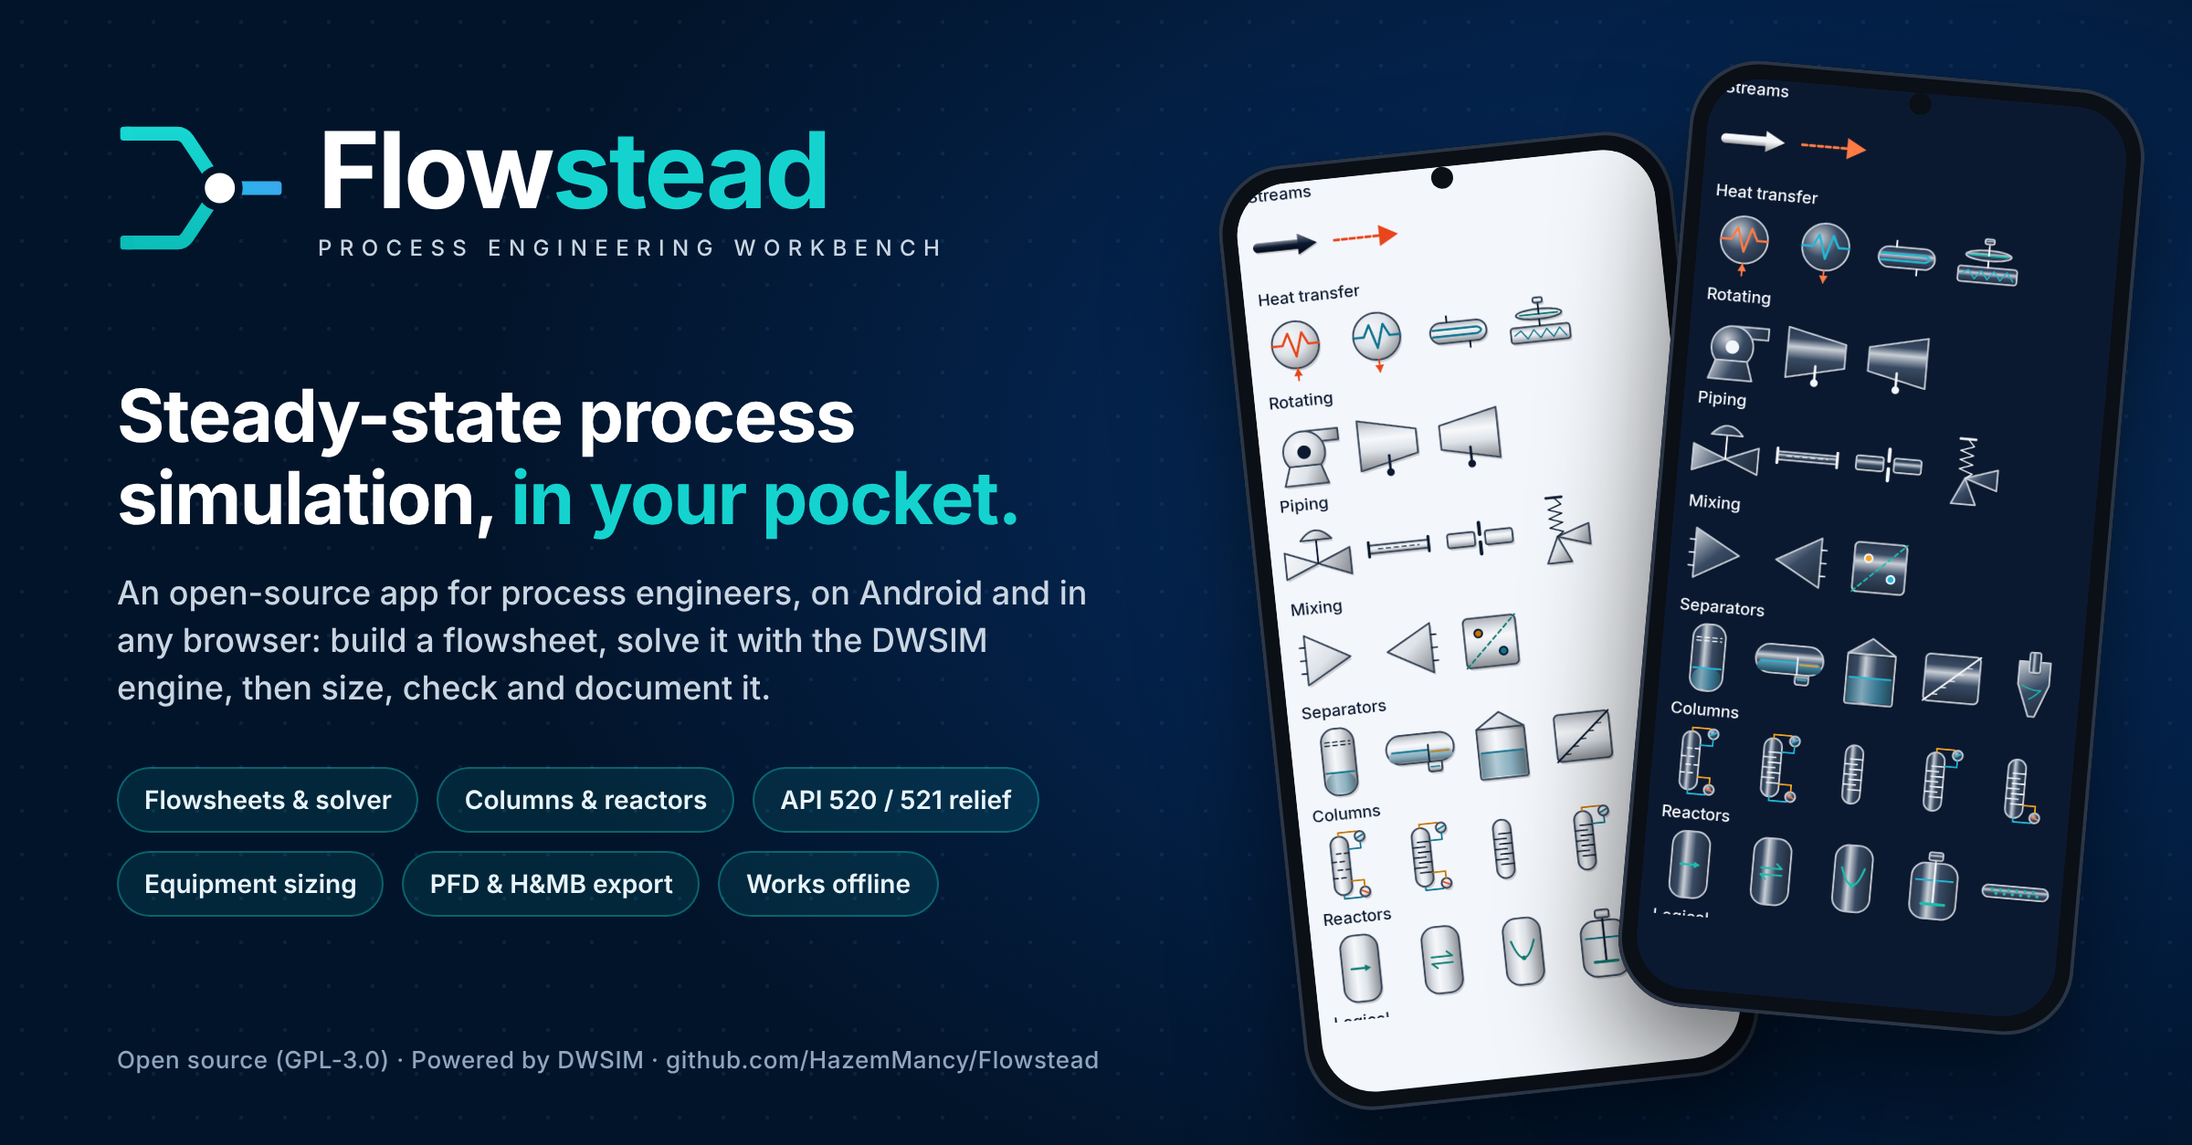
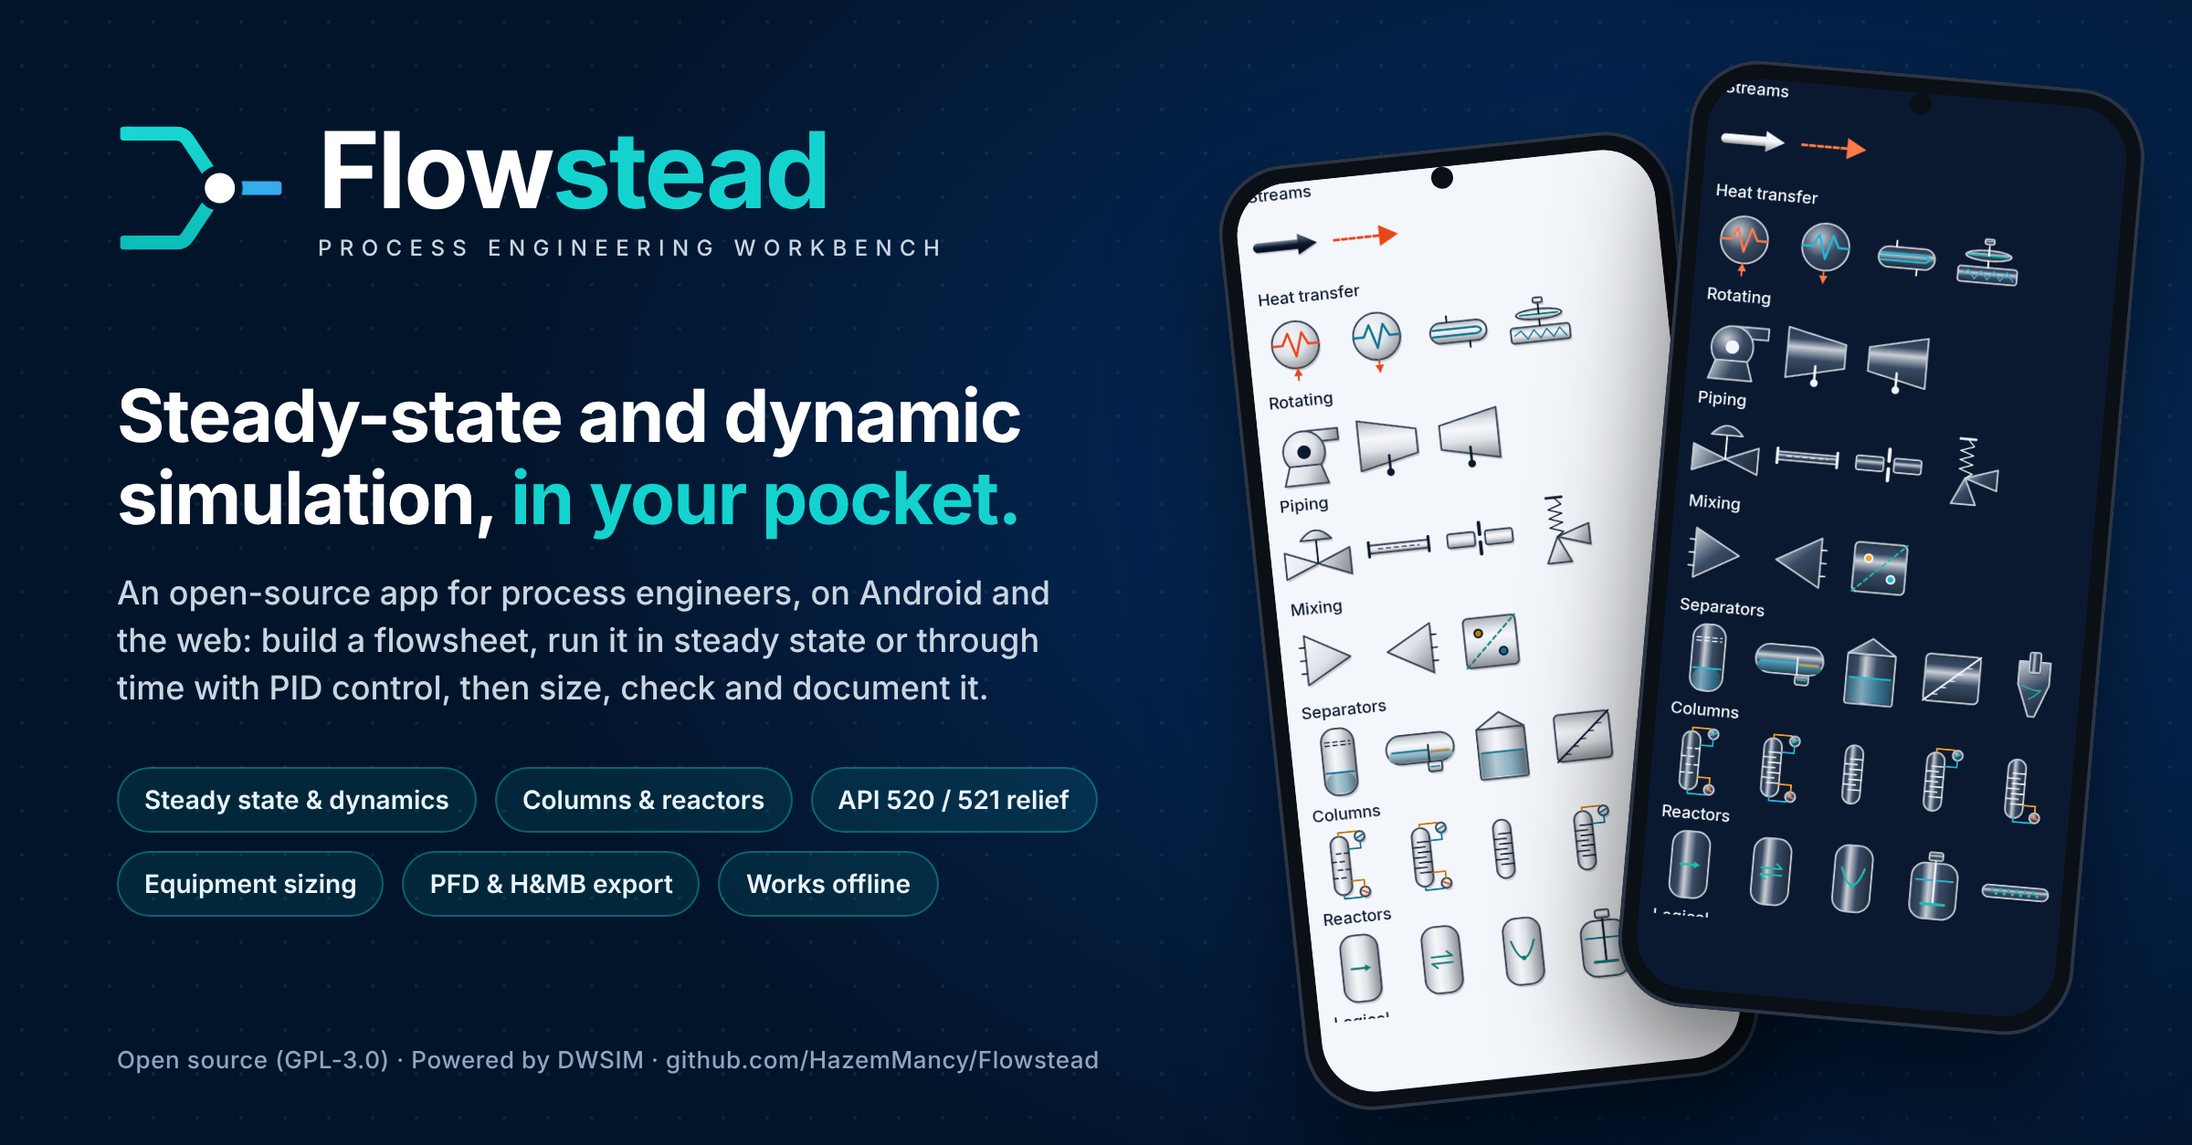
LinkedIn: dynamic simulation in the role text and a new media image (the engine's own trend), featured image mentions dynamics
Claude-Session: https://claude.ai/code/session_01HZRB96Aqg1V3VJki8fwms8

diff --git a/docs/linkedin/src/role-dynamics.html b/docs/linkedin/src/role-dynamics.html
@@ -1,0 +1,60 @@
+<!doctype html>
+<!-- LinkedIn role media: dynamic simulation (1200x627). The curves are the engine's own result for the shipped example
+     (benchmarks/20-separator-dynamics): separator pressure and PIC-100 output after the feed steps from 30 to 33 bara at 30 s. -->
+<html><head><meta charset="utf-8"><script src="mark.js"></script><style>
+@font-face{font-family:Inter;font-weight:700;src:url(../../../android/app/src/main/res/font/inter_bold.ttf)}
+@font-face{font-family:Inter;font-weight:600;src:url(../../../android/app/src/main/res/font/inter_semibold.ttf)}
+@font-face{font-family:Inter;font-weight:500;src:url(../../../android/app/src/main/res/font/inter_medium.ttf)}
+html,body{margin:0;width:1200px;height:627px;overflow:hidden;background:#02172C}
+.wrap{position:relative;width:1200px;height:627px;overflow:hidden;
+  background:radial-gradient(ellipse 70% 90% at 78% 40%,#0A3466 0%,#04224A 40%,#02142A 80%)}
+.grid{position:absolute;inset:0;background-image:radial-gradient(#5A9FF2 1px,transparent 1.2px);background-size:24px 24px;opacity:.10}
+.lock{position:absolute;left:64px;top:64px;display:flex;align-items:center;gap:18px}
+.name{font:700 58px/1 Inter;color:#fff;letter-spacing:-1.4px}
+.name span{color:#14D3CF}
+.sub{margin-top:8px;font:500 12px/1 Inter;color:#C9D6E2;letter-spacing:4.2px}
+h1{position:absolute;left:64px;top:206px;margin:0;font:700 40px/1.12 Inter;color:#fff;letter-spacing:-.8px;width:560px}
+h1 span{color:#14D3CF}
+.lead{position:absolute;left:64px;top:312px;width:540px;font:500 18px/1.45 Inter;color:#C9D6E2}
+.chips{position:absolute;left:64px;top:420px;width:580px;display:flex;flex-wrap:wrap;gap:10px}
+.chip{font:600 14px/1 Inter;color:#E8F4FA;padding:10px 14px;border-radius:999px;background:rgba(20,211,207,.10);border:1px solid rgba(20,211,207,.35)}
+.foot{position:absolute;left:64px;bottom:40px;font:500 13px/1 Inter;color:#8FA6BF;letter-spacing:.3px}
+.phone{position:absolute;width:250px;height:520px;border-radius:38px;background:#0B0F16;padding:10px;box-sizing:border-box;
+  box-shadow:0 30px 60px rgba(0,0,0,.55),0 0 0 2px #2A3546 inset}
+.phone .scr{width:100%;height:100%;border-radius:29px;overflow:hidden;position:relative;background:#F3F6FA}
+.phone img{width:100%;display:block}
+.phone .notch{position:absolute;top:10px;left:50%;transform:translateX(-50%);width:12px;height:12px;border-radius:50%;background:#0B0F16;z-index:2}
+.p1{left:690px;top:80px;transform:rotate(-6deg)}
+.p2{left:905px;top:40px;transform:rotate(5deg)}
+.p2 .scr{background:#0B1930}
+
+h2{position:absolute;left:64px;top:190px;margin:0;font:700 40px/1.12 Inter;color:#fff;letter-spacing:-.8px;width:520px}
+h2 span{color:#14D3CF}
+.l2{position:absolute;left:64px;top:340px;width:520px;font:500 18px/1.5 Inter;color:#C9D6E2}
+.where{position:absolute;left:64px;top:470px;display:flex;gap:10px}
+.cl{font:600 14px Inter;fill:#E8F4FA}.ax{font:500 12px Inter;fill:#8FA6BF}.g{stroke:#5A9FF2;stroke-opacity:.18}
+.panel{position:absolute;left:600px;top:150px;width:540px;height:405px;border-radius:18px;background:rgba(20,211,207,.06);border:1px solid rgba(20,211,207,.30)}
+</style></head><body><div class="wrap">
+<div class="grid"></div>
+<div class="lock"><svg width="92" height="70" viewBox="10 9.5 151 114" id="mk"></svg>
+<div><div class="name">Flow<span>stead</span></div><div class="sub">FOUNDER · HAZEM ELMANCY</div></div></div>
+<div class="panel"></div>
+<h2>Steady state <span>and dynamic simulation.</span></h2>
+<div class="l2">Run a solved flowsheet through time: separators hold liquid and gas, valves pass what the pressures drive, PID controllers act.</div>
+<div class="where"><div class="chip">Android</div><div class="chip">Web</div><div class="chip">PID control</div></div>
+<svg width="1200" height="627" style="position:absolute;left:0;top:0"><text x="640" y="186" class="cl">Separator pressure, bara</text>
+<line x1="640" x2="1110" y1="331.0" y2="331.0" class="g"/><text x="632" y="335.0" class="ax" text-anchor="end">20.0</text>
+<line x1="640" x2="1110" y1="271.0" y2="271.0" class="g"/><text x="632" y="275.0" class="ax" text-anchor="end">20.2</text>
+<line x1="640" x2="1110" y1="211.0" y2="211.0" class="g"/><text x="632" y="215.0" class="ax" text-anchor="end">20.4</text>
+<line x1="640" x2="1110" y1="331.0" y2="331.0" stroke="#8FA6BF" stroke-width="1.5" stroke-dasharray="6 5"/><text x="1110" y="325.0" class="ax" text-anchor="end">setpoint</text>
+<line x1="651.8" x2="651.8" y1="196" y2="346" stroke="#F2994A" stroke-width="1.5" stroke-dasharray="3 4"/>
+<path d="M640.0,331.8 L642.0,331.8 L643.9,331.8 L645.9,331.7 L647.8,331.7 L649.8,331.7 L651.8,331.7 L653.7,318.2 L655.7,305.6 L657.6,293.8 L659.6,282.8 L661.5,272.7 L663.5,263.4 L665.5,254.9 L667.4,247.2 L669.4,240.4 L671.3,234.3 L673.3,229.1 L675.2,224.5 L677.2,220.8 L679.2,217.7 L681.1,215.3 L683.1,213.6 L685.0,212.5 L687.0,212.0 L689.0,212.0 L690.9,212.6 L692.9,213.7 L694.8,215.2 L696.8,217.2 L698.8,219.5 L700.7,222.2 L702.7,225.2 L704.6,228.6 L706.6,232.1 L708.5,235.9 L710.5,239.9 L712.5,244.1 L714.4,248.3 L716.4,252.7 L718.3,257.2 L720.3,261.8 L722.2,266.3 L724.2,270.9 L726.2,275.5 L728.1,280.0 L730.1,284.5 L732.0,288.9 L734.0,293.3 L736.0,297.5 L737.9,301.7 L739.9,305.7 L741.8,309.6 L743.8,313.4 L745.8,317.0 L747.7,320.4 L749.7,323.8 L751.6,326.9 L753.6,329.9 L755.5,332.7 L757.5,335.3 L759.5,337.8 L761.4,340.1 L763.4,342.2 L765.3,344.2 L767.3,346.0 L769.2,347.6 L771.2,349.1 L773.2,350.4 L775.1,351.5 L777.1,352.5 L779.0,353.4 L781.0,354.1 L783.0,354.7 L784.9,355.1 L786.9,355.5 L788.8,355.7 L790.8,355.8 L792.8,355.8 L794.7,355.6 L796.7,355.4 L798.6,355.2 L800.6,354.8 L802.5,354.3 L804.5,353.8 L806.5,353.3 L808.4,352.6 L810.4,351.9 L812.3,351.2 L814.3,350.5 L816.2,349.7 L818.2,348.8 L820.2,348.0 L822.1,347.1 L824.1,346.3 L826.0,345.4 L828.0,344.5 L830.0,343.6 L831.9,342.7 L833.9,341.8 L835.8,341.0 L837.8,340.1 L839.8,339.3 L841.7,338.5 L843.7,337.7 L845.6,336.9 L847.6,336.1 L849.5,335.4 L851.5,334.7 L853.5,334.0 L855.4,333.4 L857.4,332.8 L859.3,332.2 L861.3,331.7 L863.2,331.2 L865.2,330.7 L867.2,330.3 L869.1,329.9 L871.1,329.5 L873.0,329.2 L875.0,328.9 L877.0,328.6 L878.9,328.4 L880.9,328.1 L882.8,328.0 L884.8,327.8 L886.8,327.7 L888.7,327.6 L890.7,327.5 L892.6,327.5 L894.6,327.4 L896.5,327.4 L898.5,327.4 L900.5,327.5 L902.4,327.5 L904.4,327.6 L906.3,327.7 L908.3,327.8 L910.2,327.9 L912.2,328.0 L914.2,328.1 L916.1,328.3 L918.1,328.4 L920.0,328.6 L922.0,328.7 L924.0,328.9 L925.9,329.1 L927.9,329.2 L929.8,329.4 L931.8,329.6 L933.8,329.8 L935.7,329.9 L937.7,330.1 L939.6,330.3 L941.6,330.5 L943.5,330.6 L945.5,330.8 L947.5,330.9 L949.4,331.1 L951.4,331.2 L953.3,331.4 L955.3,331.5 L957.2,331.7 L959.2,331.8 L961.2,331.9 L963.1,332.0 L965.1,332.1 L967.0,332.2 L969.0,332.3 L971.0,332.4 L972.9,332.5 L974.9,332.5 L976.8,332.6 L978.8,332.7 L980.8,332.7 L982.7,332.8 L984.7,332.8 L986.6,332.9 L988.6,332.9 L990.5,332.9 L992.5,332.9 L994.5,332.9 L996.4,332.9 L998.4,333.0 L1000.3,333.0 L1002.3,332.9 L1004.2,332.9 L1006.2,332.9 L1008.2,332.9 L1010.1,332.9 L1012.1,332.9 L1014.0,332.9 L1016.0,332.8 L1018.0,332.8 L1019.9,332.8 L1021.9,332.7 L1023.8,332.7 L1025.8,332.7 L1027.8,332.6 L1029.7,332.6 L1031.7,332.6 L1033.6,332.5 L1035.6,332.5 L1037.5,332.5 L1039.5,332.4 L1041.5,332.4 L1043.4,332.3 L1045.4,332.3 L1047.3,332.3 L1049.3,332.2 L1051.2,332.2 L1053.2,332.2 L1055.2,332.1 L1057.1,332.1 L1059.1,332.1 L1061.0,332.0 L1063.0,332.0 L1065.0,332.0 L1066.9,332.0 L1068.9,331.9 L1070.8,331.9 L1072.8,331.9 L1074.8,331.9 L1076.7,331.9 L1078.7,331.8 L1080.6,331.8 L1082.6,331.8 L1084.5,331.8 L1086.5,331.8 L1088.5,331.8 L1090.4,331.8 L1092.4,331.7 L1094.3,331.7 L1096.3,331.7 L1098.2,331.7 L1100.2,331.7 L1102.2,331.7 L1104.1,331.7 L1106.1,331.7 L1108.0,331.7 L1110.0,331.7" fill="none" stroke="#14D3CF" stroke-width="3" stroke-linejoin="round"/><text x="640" y="394" class="cl">PIC-100 valve output, %</text>
+<line x1="640" x2="1110" y1="486.5" y2="486.5" class="g"/><text x="632" y="490.5" class="ax" text-anchor="end">50</text>
+<line x1="640" x2="1110" y1="459.0" y2="459.0" class="g"/><text x="632" y="463.0" class="ax" text-anchor="end">55</text>
+<line x1="640" x2="1110" y1="431.5" y2="431.5" class="g"/><text x="632" y="435.5" class="ax" text-anchor="end">60</text>
+<line x1="651.8" x2="651.8" y1="404" y2="514" stroke="#F2994A" stroke-width="1.5" stroke-dasharray="3 4"/>
+<path d="M640.0,486.5 L642.0,486.6 L643.9,486.6 L645.9,486.6 L647.8,486.6 L649.8,486.6 L651.8,486.6 L653.7,485.6 L655.7,484.1 L657.6,482.6 L659.6,480.9 L661.5,479.2 L663.5,477.3 L665.5,475.5 L667.4,473.5 L669.4,471.6 L671.3,469.6 L673.3,467.6 L675.2,465.6 L677.2,463.5 L679.2,461.6 L681.1,459.6 L683.1,457.6 L685.0,455.7 L687.0,453.8 L689.0,452.0 L690.9,450.2 L692.9,448.5 L694.8,446.9 L696.8,445.3 L698.8,443.8 L700.7,442.3 L702.7,441.0 L704.6,439.7 L706.6,438.4 L708.5,437.3 L710.5,436.2 L712.5,435.2 L714.4,434.3 L716.4,433.5 L718.3,432.7 L720.3,432.1 L722.2,431.4 L724.2,430.9 L726.2,430.4 L728.1,430.0 L730.1,429.7 L732.0,429.4 L734.0,429.2 L736.0,429.0 L737.9,428.9 L739.9,428.9 L741.8,428.9 L743.8,428.9 L745.8,429.0 L747.7,429.1 L749.7,429.3 L751.6,429.5 L753.6,429.7 L755.5,430.0 L757.5,430.3 L759.5,430.6 L761.4,430.9 L763.4,431.3 L765.3,431.6 L767.3,432.0 L769.2,432.4 L771.2,432.8 L773.2,433.2 L775.1,433.6 L777.1,434.0 L779.0,434.5 L781.0,434.9 L783.0,435.3 L784.9,435.7 L786.9,436.1 L788.8,436.5 L790.8,436.9 L792.8,437.3 L794.7,437.6 L796.7,438.0 L798.6,438.3 L800.6,438.7 L802.5,439.0 L804.5,439.3 L806.5,439.6 L808.4,439.9 L810.4,440.1 L812.3,440.4 L814.3,440.6 L816.2,440.8 L818.2,441.1 L820.2,441.2 L822.1,441.4 L824.1,441.6 L826.0,441.7 L828.0,441.9 L830.0,442.0 L831.9,442.1 L833.9,442.2 L835.8,442.3 L837.8,442.3 L839.8,442.4 L841.7,442.4 L843.7,442.5 L845.6,442.5 L847.6,442.5 L849.5,442.5 L851.5,442.5 L853.5,442.5 L855.4,442.5 L857.4,442.5 L859.3,442.4 L861.3,442.4 L863.2,442.4 L865.2,442.3 L867.2,442.3 L869.1,442.2 L871.1,442.2 L873.0,442.1 L875.0,442.1 L877.0,442.0 L878.9,441.9 L880.9,441.9 L882.8,441.8 L884.8,441.7 L886.8,441.7 L888.7,441.6 L890.7,441.6 L892.6,441.5 L894.6,441.4 L896.5,441.4 L898.5,441.3 L900.5,441.3 L902.4,441.2 L904.4,441.2 L906.3,441.1 L908.3,441.1 L910.2,441.1 L912.2,441.0 L914.2,441.0 L916.1,441.0 L918.1,440.9 L920.0,440.9 L922.0,440.9 L924.0,440.9 L925.9,440.9 L927.9,440.8 L929.8,440.8 L931.8,440.8 L933.8,440.8 L935.7,440.8 L937.7,440.8 L939.6,440.8 L941.6,440.8 L943.5,440.8 L945.5,440.8 L947.5,440.9 L949.4,440.9 L951.4,440.9 L953.3,440.9 L955.3,440.9 L957.2,440.9 L959.2,441.0 L961.2,441.0 L963.1,441.0 L965.1,441.0 L967.0,441.1 L969.0,441.1 L971.0,441.1 L972.9,441.2 L974.9,441.2 L976.8,441.2 L978.8,441.2 L980.8,441.3 L982.7,441.3 L984.7,441.3 L986.6,441.4 L988.6,441.4 L990.5,441.4 L992.5,441.5 L994.5,441.5 L996.4,441.5 L998.4,441.6 L1000.3,441.6 L1002.3,441.6 L1004.2,441.6 L1006.2,441.7 L1008.2,441.7 L1010.1,441.7 L1012.1,441.8 L1014.0,441.8 L1016.0,441.8 L1018.0,441.8 L1019.9,441.9 L1021.9,441.9 L1023.8,441.9 L1025.8,441.9 L1027.8,442.0 L1029.7,442.0 L1031.7,442.0 L1033.6,442.0 L1035.6,442.0 L1037.5,442.1 L1039.5,442.1 L1041.5,442.1 L1043.4,442.1 L1045.4,442.1 L1047.3,442.1 L1049.3,442.2 L1051.2,442.2 L1053.2,442.2 L1055.2,442.2 L1057.1,442.2 L1059.1,442.2 L1061.0,442.2 L1063.0,442.3 L1065.0,442.3 L1066.9,442.3 L1068.9,442.3 L1070.8,442.3 L1072.8,442.3 L1074.8,442.3 L1076.7,442.3 L1078.7,442.4 L1080.6,442.4 L1082.6,442.4 L1084.5,442.4 L1086.5,442.4 L1088.5,442.4 L1090.4,442.4 L1092.4,442.4 L1094.3,442.4 L1096.3,442.5 L1098.2,442.5 L1100.2,442.5 L1102.2,442.5 L1104.1,442.5 L1106.1,442.5 L1108.0,442.5 L1110.0,442.5" fill="none" stroke="#5A9FF2" stroke-width="3" stroke-linejoin="round"/><text x="640" y="540" class="ax">0</text><text x="1110" y="540" class="ax" text-anchor="end">1,200 s</text><text x="658" y="368" class="ax" fill="#F2994A" style="fill:#F2994A">feed 30 → 33 bara at 30 s</text></svg>
+<div class="foot">Engine result for the example "separator under pressure and level control" · Open source (GPL-3.0) · Powered by DWSIM</div>
+</div>
+<script>document.getElementById('mk').innerHTML = flowsteadMark(BLUE_OUTLET);</script>
+</body></html>

diff --git a/docs/linkedin/src/role-three-ways.html b/docs/linkedin/src/role-three-ways.html
@@ -45,9 +45,9 @@ h2 span{color:#14D3CF}
 </div>
 <h2>One simulator, <span>three ways to open it.</span></h2>
 <div class="cards">
- <div class="card"><div class="k">ANDROID</div><div class="t">The app</div><div class="d">Signed APKs, runs offline on the phone. Flowsheets, relief and line sizing, data sheets.</div><div class="u">github.com/HazemMancy/Flowstead/releases</div></div>
+ <div class="card"><div class="k">ANDROID</div><div class="t">The app</div><div class="d">Signed APKs, runs offline on the phone. Steady-state and dynamic flowsheets, relief, line sizing.</div><div class="u">github.com/HazemMancy/Flowstead/releases</div></div>
  <div class="card"><div class="k">WEB · STREAM</div><div class="t">Stream workbench</div><div class="d">Flash a stream, phase envelope, hydrates and PVT in the browser. Nothing to install.</div><div class="u">hazemmancy.github.io/Flowstead</div></div>
- <div class="card"><div class="k">WEB · FLOWSHEET</div><div class="t">Flowsheet</div><div class="d">Draw and solve a full flowsheet on iPhone, iPad or desktop, then export PFD and H&amp;MB.</div><div class="u">hazemmancy.github.io/Flowstead/flowsheet.html</div></div>
+ <div class="card"><div class="k">WEB · FLOWSHEET</div><div class="t">Flowsheet</div><div class="d">Draw and solve a full flowsheet, steady state or dynamic, on iPhone, iPad or desktop. Export PFD and H&amp;MB.</div><div class="u">hazemmancy.github.io/Flowstead/flowsheet.html</div></div>
 </div>
 <div class="foot">Open source (GPL-3.0) · Powered by DWSIM · github.com/HazemMancy/Flowstead</div>
 </div>

diff --git a/docs/linkedin/src/featured.html b/docs/linkedin/src/featured.html
@@ -33,10 +33,10 @@ h1 span{color:#14D3CF}
   <svg width="92" height="70" viewBox="10 9.5 151 114" id="mk"></svg>
   <div><div class="name">Flow<span>stead</span></div><div class="sub">PROCESS ENGINEERING WORKBENCH</div></div>
 </div>
-<h1>Steady-state process simulation, <span>in your pocket.</span></h1>
-<div class="lead">An open-source app for process engineers, on Android and in any browser: build a flowsheet, solve it with the DWSIM engine, then size, check and document it.</div>
+<h1>Steady-state and dynamic simulation, <span>in your pocket.</span></h1>
+<div class="lead">An open-source app for process engineers, on Android and the web: build a flowsheet, run it in steady state or through time with PID control, then size, check and document it.</div>
 <div class="chips">
-  <div class="chip">Flowsheets &amp; solver</div><div class="chip">Columns &amp; reactors</div>
+  <div class="chip">Steady state &amp; dynamics</div><div class="chip">Columns &amp; reactors</div>
   <div class="chip">API 520 / 521 relief</div><div class="chip">Equipment sizing</div>
   <div class="chip">PFD &amp; H&amp;MB export</div><div class="chip">Works offline</div>
 </div>

diff --git a/docs/linkedin/src/render.js b/docs/linkedin/src/render.js
@@ -11,6 +11,7 @@ const path = require('path');
     ['featured.html', 'featured-1200x627.png', 1200, 627, 1],
     ['featured.html', 'featured-2400x1254.png', 1200, 627, 2],
     ['role-three-ways.html', 'role-three-ways-1200x627.png', 1200, 627, 1],
+    ['role-dynamics.html', 'role-dynamics-1200x627.png', 1200, 627, 1],
     ['role-built-to-check.html', 'role-built-to-check-1200x627.png', 1200, 627, 1],
     ['post-pocket.html', 'post-pocket-1200x1500.png', 1200, 1500, 1],
     ['post-dwsim10.html', 'post-dwsim10-1200x1500.png', 1200, 1500, 1],

diff --git a/docs/linkedin/role-text.md b/docs/linkedin/role-text.md
@@ -1,18 +1,19 @@
 # LinkedIn: Experience, role "Founder, Flowstead"
 
-Paste into the role's **Highlights** box (limit 2,000 characters; this is 1530). LinkedIn shows URLs in this box as plain text, so also add the three links as **Media → Add link** (titles below), which show as clickable cards.
+Paste into the role's **Highlights** box (limit 2,000 characters; this is 1723). LinkedIn shows URLs in this box as plain text, so also add the three links as **Media → Add link** (titles below), which show as clickable cards.
 
 ```text
-Founder of Flowstead, a free, open-source process simulator for process engineers, on Android and in the browser. I defined the product, set the engineering rules, checked results against HYSYS and released it.
+Founder of Flowstead, a free, open-source steady-state and dynamic process simulator for process engineers, on Android and in the browser. I defined the product, set the engineering rules, checked results against HYSYS and released it.
 
 Use it
 • Android app (signed APKs): https://github.com/HazemMancy/Flowstead/releases
 • Web, stream workbench (flash, phase envelope, hydrates, PVT): https://hazemmancy.github.io/Flowstead/
-• Web, flowsheet (draw, solve, export PFD and H&MB): https://hazemmancy.github.io/Flowstead/flowsheet.html
+• Web, flowsheet (draw, solve, run dynamics, export PFD and H&MB): https://hazemmancy.github.io/Flowstead/flowsheet.html
 • Source code (GPL-3.0): https://github.com/HazemMancy/Flowstead
 
 What it does
-• Steady-state and dynamic flowsheets: separators, compressor and cooler trains, valves, pipelines, columns, reactors, recycles, PID control.
+• Steady-state flowsheets: separators, compressor and cooler trains, valves, pipelines, columns, reactors and recycles.
+• Dynamic simulation: run a solved flowsheet through time with PID controllers (level, pressure, temperature, flow), step the feed, a valve or a setpoint, and read the trends.
 • Relief and safety: PSV sizing (API 520/526), relief scenarios and depressuring (API 521), inlet-loss and back-pressure checks.
 • Phase envelopes with hydrate curves and wet-gas water dew lines, a PVT laboratory, pump and compressor curves, valve, line and separator sizing.
 • Data sheets, PFD and heat and material balances as PDF or Excel.
@@ -30,6 +31,7 @@ A screening and checking tool: confirm design results against your project's app
 | Upload | File | Title | Description |
 |---|---|---|---|
 | Image | `featured-1200x627.png` | Flowstead | Open-source process simulator for Android and the web |
+| Image | `role-dynamics-1200x627.png` | Steady state and dynamic simulation | Separator pressure control after a feed step: the engine's own result |
 | Image | `role-three-ways-1200x627.png` | One simulator, three ways to open it | Android app, web stream workbench, web flowsheet |
 | Image | `role-built-to-check-1200x627.png` | Built so every number can be checked | DWSIM engine, tested against references, GPL-3.0 |
 | Link | https://github.com/HazemMancy/Flowstead/releases | Flowstead for Android | Signed APKs on GitHub Releases |
